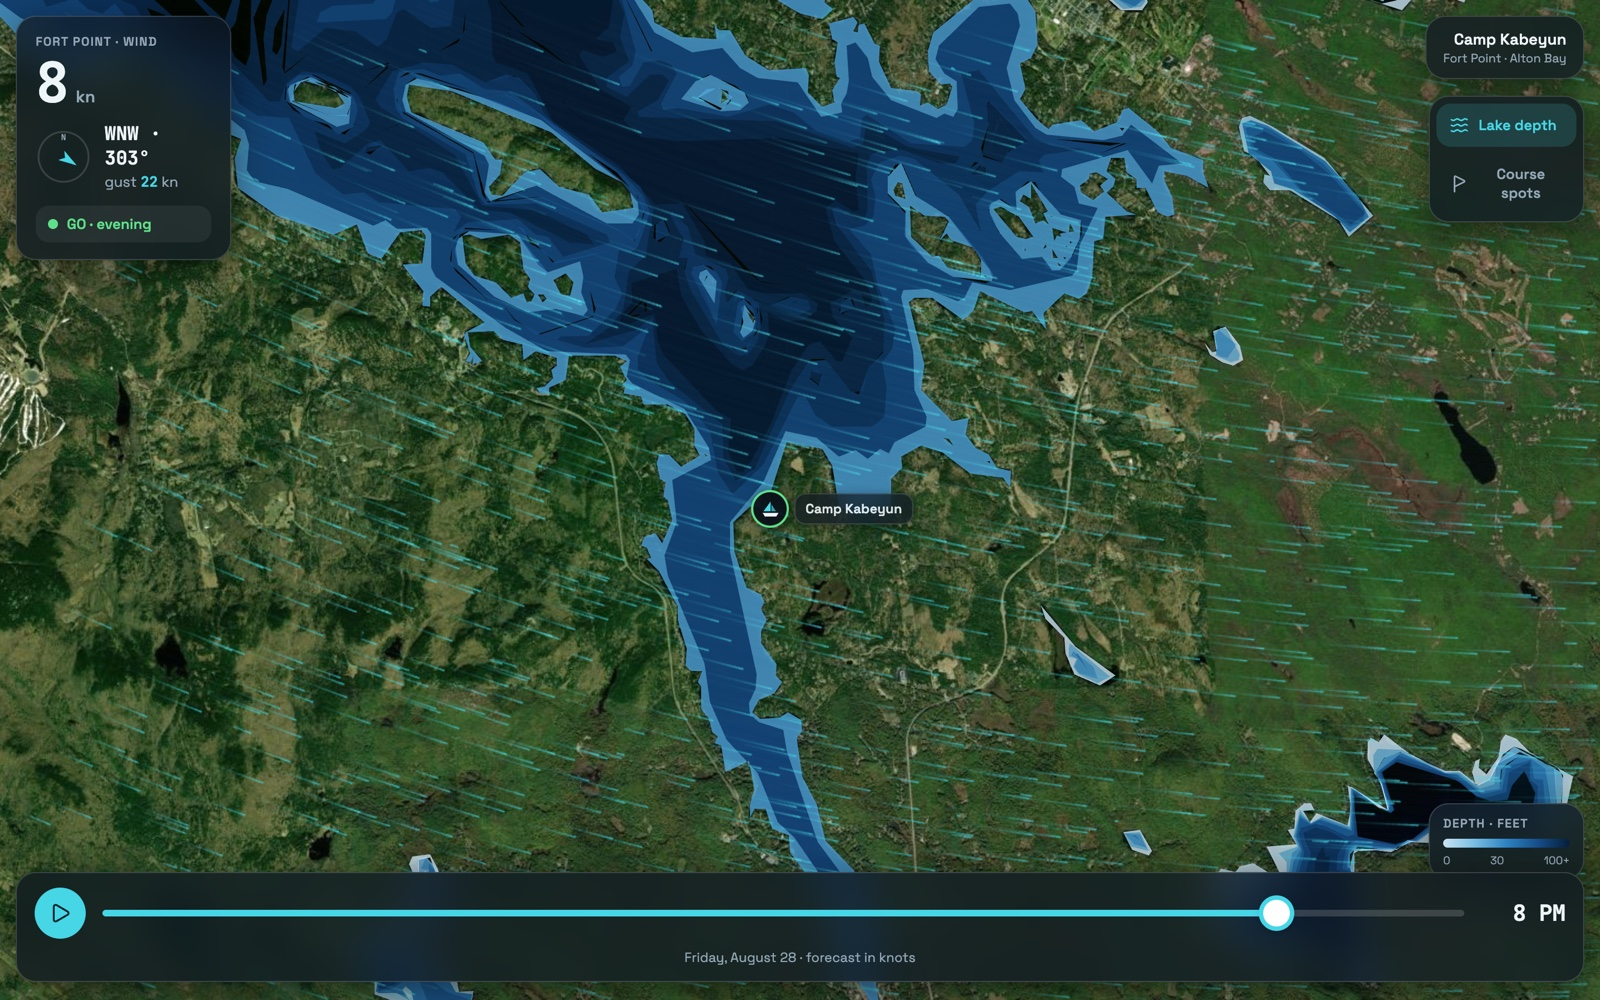
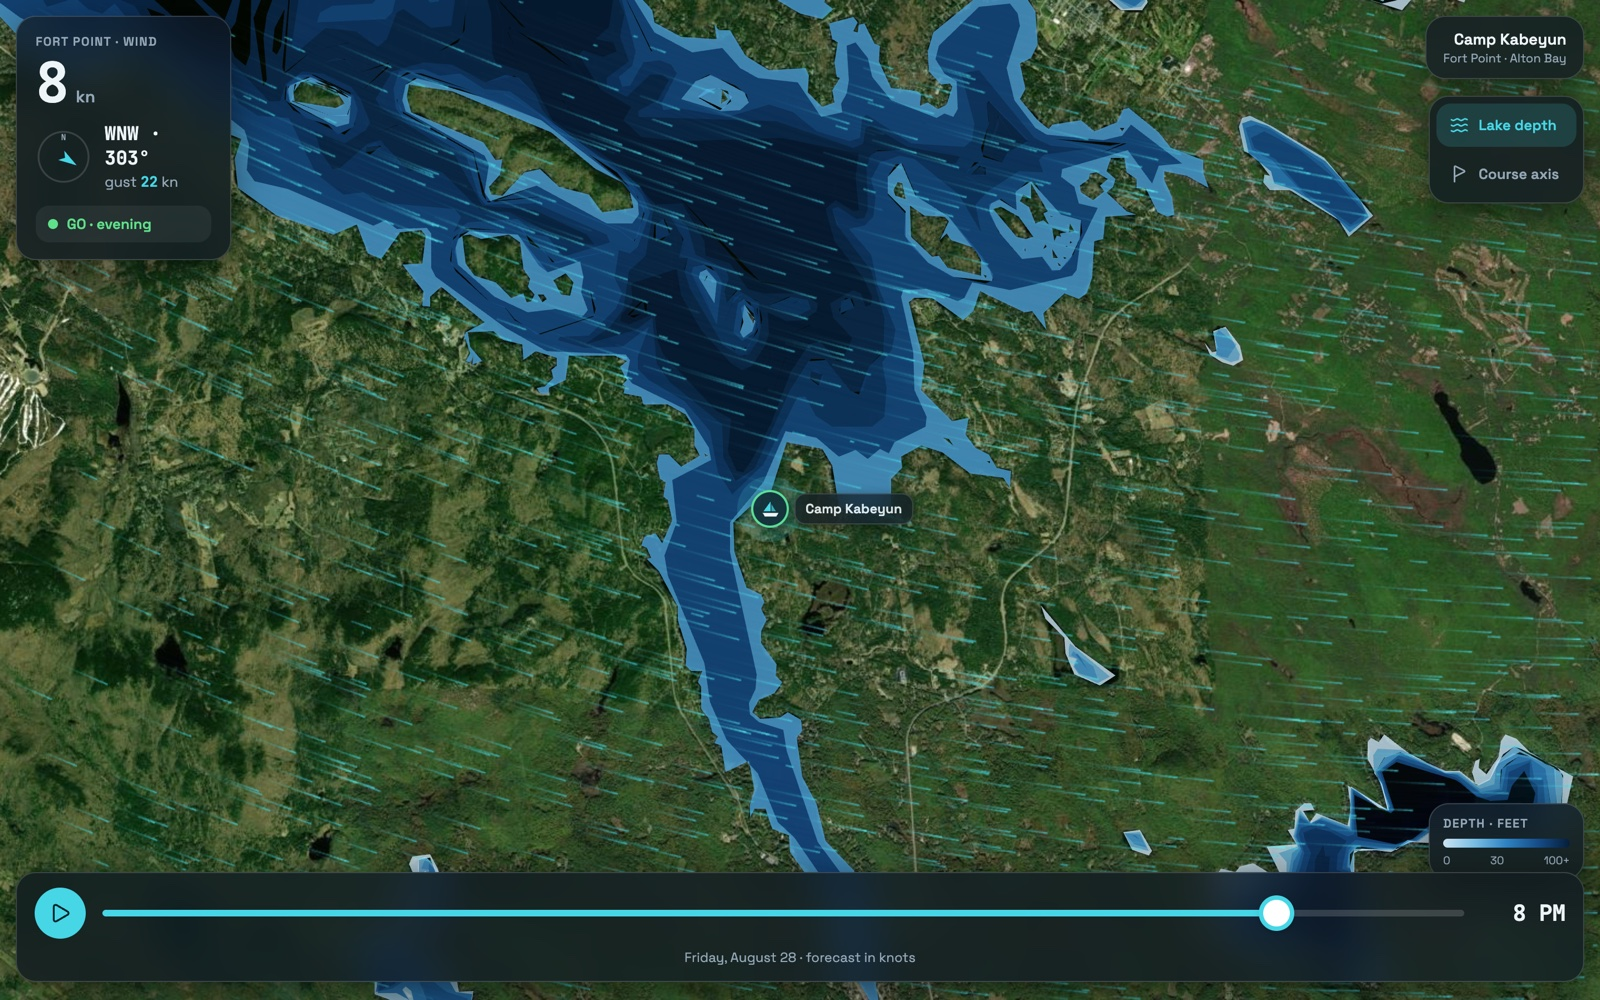
Course overlay: place marks on open water, drop the false depth claim
The overlay filtered bathymetry to "8-30 ft" water and shaded everything
that passed. Two problems:

- Near camp the data only resolves into 20-foot bands (0-20, 20-40), so
  that filter cannot identify holding ground. It also matched two
  region-scale polygons, flooding the map green over forest and roads.
- The windward/leeward axis was drawn from a hardcoded centre 700m at
  bearing 20 with no land check, which put the leeward mark on the point.

The bathymetry is reliable as a shoreline mask (coverage stops exactly at
the shore), so use it for what it can actually support: search outward
from camp for the longest beat whose marks both sit in open water with
80m clearance, and draw nothing if none fits. Verified across all 12
compass directions - each yields an 800m beat, centre 400-700m out.

Memoised per 10 degrees: 57ms per new direction, 1ms cached.

Renamed "Course spots" -> "Course axis" to match what it now claims.

diff --git a/wind-map/index.html b/wind-map/index.html
@@ -112,7 +112,7 @@
 
 <div id="overlays" class="glass">
   <button id="t-depth" class="depth"><i data-lucide="waves"></i>Lake depth</button>
-  <button id="t-course" class="course"><i data-lucide="flag-triangle-right"></i>Course spots</button>
+  <button id="t-course" class="course"><i data-lucide="flag-triangle-right"></i>Course axis</button>
 </div>
 
 <div id="depthlegend" class="leg glass"><div class="lbl">Depth · feet</div><div class="bar"></div><div class="ticks"><span>0</span><span>30</span><span>100+</span></div></div>
@@ -226,24 +226,90 @@
   // ---- depth + course overlays ----
   function depthColor(d){ var s=[[0,'#cde6f5'],[3,'#a6d6ee'],[6,'#79c0e6'],[10,'#4ea3d9'],[15,'#2e83c4'],[20,'#1f66a8'],[30,'#154e8a'],[45,'#0e3a6b'],[65,'#0a2b50'],[100,'#061d3a']]; var c=s[0][1]; for(var i=0;i<s.length;i++){ if(d>=s[i][0])c=s[i][1]; } return c; }
   function midDepth(p){ return (p.a+p.b)/2; }
-  function goodForMark(p){ return p.b>=8 && p.a<=30; }
   function dest(lat,lon,brng,dm){ var R=6371000,br=brng*Math.PI/180,la=lat*Math.PI/180,lo=lon*Math.PI/180,dr=dm/R; var la2=Math.asin(Math.sin(la)*Math.cos(dr)+Math.cos(la)*Math.sin(dr)*Math.cos(br)); var lo2=lo+Math.atan2(Math.sin(br)*Math.sin(dr)*Math.cos(la),Math.cos(dr)-Math.sin(la)*Math.sin(la2)); return [la2*180/Math.PI,lo2*180/Math.PI]; }
-  var COURSE_CENTER=dest(CAMP[0],CAMP[1],20,700);
-  var bathyData=null,depthLayer=null,courseGood=null,courseAxisG=null,depthOn=false,courseOn=false;
-  function ensureBathy(cb){ if(bathyData){cb();return;} fetch('./bathy.geojson').then(function(r){return r.json();}).then(function(d){bathyData=d;cb();}).catch(function(){}); }
+  var bathyData=null,depthLayer=null,courseAxisG=null,depthOn=false,courseOn=false;
+  function ensureBathy(cb){ if(bathyData){cb();return;} fetch('./bathy.geojson').then(function(r){return r.json();}).then(function(d){bathyData=d;prepWater();cb();}).catch(function(){}); }
+
+  // The bathymetry doubles as a water mask: a point inside a depth polygon is water,
+  // a point outside every one is shore. Near camp the only coverage is 20ft-wide depth
+  // bands — too coarse to identify "good holding ground" — so the course layer claims
+  // only what the data actually supports: an axis that fits on open water.
+  var waterFeats=null;
+  function prepWater(){
+    waterFeats=bathyData.features.map(function(f){
+      var xs=[],ys=[];
+      (function walk(c){ if(typeof c[0]==='number'){ xs.push(c[0]); ys.push(c[1]); } else { for(var i=0;i<c.length;i++) walk(c[i]); } })(f.geometry.coordinates);
+      return { rings:f.geometry.coordinates,
+               minx:Math.min.apply(null,xs), maxx:Math.max.apply(null,xs),
+               miny:Math.min.apply(null,ys), maxy:Math.max.apply(null,ys) };
+    });
+  }
+  function ringHas(lon,lat,ring){
+    var ins=false;
+    for(var i=0,j=ring.length-1;i<ring.length;j=i++){
+      var xi=ring[i][0],yi=ring[i][1],xj=ring[j][0],yj=ring[j][1];
+      if((yi>lat)!==(yj>lat) && lon<(xj-xi)*(lat-yi)/(yj-yi)+xi) ins=!ins;
+    }
+    return ins;
+  }
+  function inWater(lon,lat){
+    if(!waterFeats) return false;
+    for(var k=0;k<waterFeats.length;k++){
+      var f=waterFeats[k];
+      if(lon<f.minx||lon>f.maxx||lat<f.miny||lat>f.maxy) continue;
+      if(!ringHas(lon,lat,f.rings[0])) continue;
+      var inHole=false;
+      for(var h=1;h<f.rings.length;h++){ if(ringHas(lon,lat,f.rings[h])){ inHole=true; break; } }
+      if(!inHole) return true;
+    }
+    return false;
+  }
+  // A point counts as usable only if it has open water all around it — being barely
+  // inside the mask puts a mark on the beach.
+  function clearWater(pt,r){
+    if(!inWater(pt[1],pt[0])) return false;
+    for(var b=0;b<360;b+=45){ var p=dest(pt[0],pt[1],b,r); if(!inWater(p[1],p[0])) return false; }
+    return true;
+  }
+  // Best windward/leeward axis for this wind: search centres out from camp, keep the
+  // one giving the longest beat with both marks in genuinely open water. Memoised per
+  // 10 degrees so scrubbing the slider doesn't re-run the search.
+  var courseCache={};
+  function findCourse(dir){
+    var key=Math.round(dir/10)*10%360;
+    if(courseCache[key]!==undefined) return courseCache[key];
+    var best=null;
+    for(var dm=300; dm<=1200; dm+=100){
+      for(var b=0; b<360; b+=10){
+        var c=dest(CAMP[0],CAMP[1],b,dm);
+        if(!clearWater(c,120)) continue;
+        for(var half=400; half>=160; half-=40){
+          var w=dest(c[0],c[1],key,half), l=dest(c[0],c[1],(key+180)%360,half);
+          if(clearWater(w,80) && clearWater(l,80)){
+            if(!best || half>best.half || (half===best.half && dm<best.dm)) best={half:half,dm:dm,w:w,l:l};
+            break;
+          }
+        }
+      }
+    }
+    courseCache[key]=best;
+    return best;
+  }
   function buildDepth(){ depthLayer=L.geoJSON(bathyData,{pane:'bathy',style:function(f){return{stroke:false,fillColor:depthColor(midDepth(f.properties)),fillOpacity:0.8};}}); }
-  function buildCourseGood(){ courseGood=L.geoJSON(bathyData,{pane:'course',filter:function(f){return goodForMark(f.properties);},style:{stroke:false,fillColor:'#5fe08a',fillOpacity:0.30}}); }
-  function updateAxis(dir){ if(courseAxisG)map.removeLayer(courseAxisG); var half=360; var wind=dest(COURSE_CENTER[0],COURSE_CENTER[1],dir,half),lee=dest(COURSE_CENTER[0],COURSE_CENTER[1],(dir+180)%360,half);
-    var axis=L.polyline([wind,lee],{pane:'course',color:'#fff',weight:2,dashArray:'6 7',opacity:.92});
-    var wM=L.marker(wind,{pane:'course',icon:L.divIcon({className:'',iconSize:[30,30],iconAnchor:[15,15],html:'<div class="mark-badge">W</div>'})}).bindTooltip('Windward',{direction:'top',className:'camp-lbl'});
-    var lM=L.marker(lee,{pane:'course',icon:L.divIcon({className:'',iconSize:[30,30],iconAnchor:[15,15],html:'<div class="mark-badge">L</div>'})}).bindTooltip('Leeward',{direction:'bottom',className:'camp-lbl'});
+  function updateAxis(dir){
+    if(courseAxisG){ map.removeLayer(courseAxisG); courseAxisG=null; }
+    var c=findCourse(dir);
+    if(!c) return;   // no axis fits on water for this wind — draw nothing rather than lie
+    var axis=L.polyline([c.w,c.l],{pane:'course',color:'#fff',weight:2,dashArray:'6 7',opacity:.92});
+    var wM=L.marker(c.w,{pane:'course',icon:L.divIcon({className:'',iconSize:[30,30],iconAnchor:[15,15],html:'<div class="mark-badge">W</div>'})}).bindTooltip('Windward',{direction:'top',className:'camp-lbl'});
+    var lM=L.marker(c.l,{pane:'course',icon:L.divIcon({className:'',iconSize:[30,30],iconAnchor:[15,15],html:'<div class="mark-badge">L</div>'})}).bindTooltip('Leeward',{direction:'bottom',className:'camp-lbl'});
     courseAxisG=L.layerGroup([axis,wM,lM]).addTo(map);
   }
   document.getElementById('t-depth').addEventListener('click',function(){ var b=this; ensureBathy(function(){ depthOn=!depthOn; b.classList.toggle('on',depthOn);
     document.getElementById('depthlegend').classList.toggle('show',depthOn); document.getElementById('legend').classList.toggle('show',!depthOn);
     if(depthOn){ if(!depthLayer)buildDepth(); depthLayer.addTo(map); } else if(depthLayer){ map.removeLayer(depthLayer); } }); });
   document.getElementById('t-course').addEventListener('click',function(){ var b=this; ensureBathy(function(){ courseOn=!courseOn; b.classList.toggle('on',courseOn);
-    if(courseOn){ if(!courseGood)buildCourseGood(); courseGood.addTo(map); updateAxis(curDir()); } else { if(courseGood)map.removeLayer(courseGood); if(courseAxisG){map.removeLayer(courseAxisG);courseAxisG=null;} } }); });
+    if(courseOn){ updateAxis(curDir()); } else if(courseAxisG){ map.removeLayer(courseAxisG); courseAxisG=null; } }); });
 })();
 </script>
 </body>

diff --git a/wind-map/api/daily-brief.js b/wind-map/api/daily-brief.js
@@ -31,7 +31,7 @@ _Fort Point, Alton Bay · ${fmtDate(f.day)}_${banner}
 ${lines.join("\n\n")}
 
 ${tempLine}  ·  📊 ${f.confidence}${calib}
-🗺 *Tap for live map:* <${MAP_URL}|Alton Bay — wind · depth · course spots>
+🗺 *Tap for live map:* <${MAP_URL}|Alton Bay — wind · depth · course axis>
 _Sources: ${f.sources}.  React to calibrate:_  👍 spot-on · 💨 windier · 😴 calmer`
   );
 }

diff --git a/README.md b/README.md
@@ -65,11 +65,13 @@ Each brief asks for a reaction: 👍 spot-on, 💨 windier than forecast, 😴 c
 
 The interesting part is where the state lives: **nowhere.** There's no database. Slack messages already store their own reactions, so the message history *is* the training data. `conversations.history` returns everything the loop needs, which means the whole system is stateless and there is no storage to provision, migrate, or pay for.
 
-## Lake depth
+## Lake depth and course placement
 
 Winnipesaukee is full of unmarked shoals, and where you can safely set a race mark depends entirely on depth. The map carries the bay's bathymetry as an overlay.
 
 ![Lake depth overlay — graduated bathymetry across Alton Bay and the Broads](docs/screenshots/depth.jpg)
+
+Those same polygons do second duty as a shoreline mask. The **course axis** overlay searches outward from camp for the longest windward/leeward beat whose two marks both sit in genuinely open water — 80 metres of clearance in every direction — and rotates it to the forecast wind for the hour you're scrubbed to. If no axis fits, it draws nothing rather than putting a mark on the beach.
 
 ## Rewriting v1
 
@@ -106,7 +108,7 @@ Every verdict threshold lives in `config.js` as a named constant rather than sca
 
 ## Known limitations
 
-- **The course-spot overlay over-selects.** It filters bathymetry to water 8–30 ft deep, but a few polygons in the source data are very coarse — one spans roughly 25 × 30 km — and they pass the depth filter, so the layer shades far more area than it should. It also draws the windward/leeward axis purely geometrically, with no land mask, so a mark can land on shore. Needs a polygon-area filter and a shoreline check.
+- **Course placement uses a shoreline mask, not a depth check.** The bathymetry around camp resolves only into 20-foot bands (0–20, 20–40), which can't identify good holding ground — so the course layer no longer claims to. Actual depth under each mark is unverified; check the depth overlay before dropping an anchor.
 - **No automated tests.** For a single-user tool this was a deliberate trade; it's the first thing I'd add before anyone else depended on it.
 - **The calibration loop currently reports a bias of 0.** That's correct behavior for accurate forecasts, but it's indistinguishable from the loop not running, which is a gap in the instrumentation.
 - **Alton Bay sits in a wind shadow** and typically reads 20–30% lower than the Broads. The models don't know this; I do, and I read the map accordingly. Encoding that correction is unfinished work.
